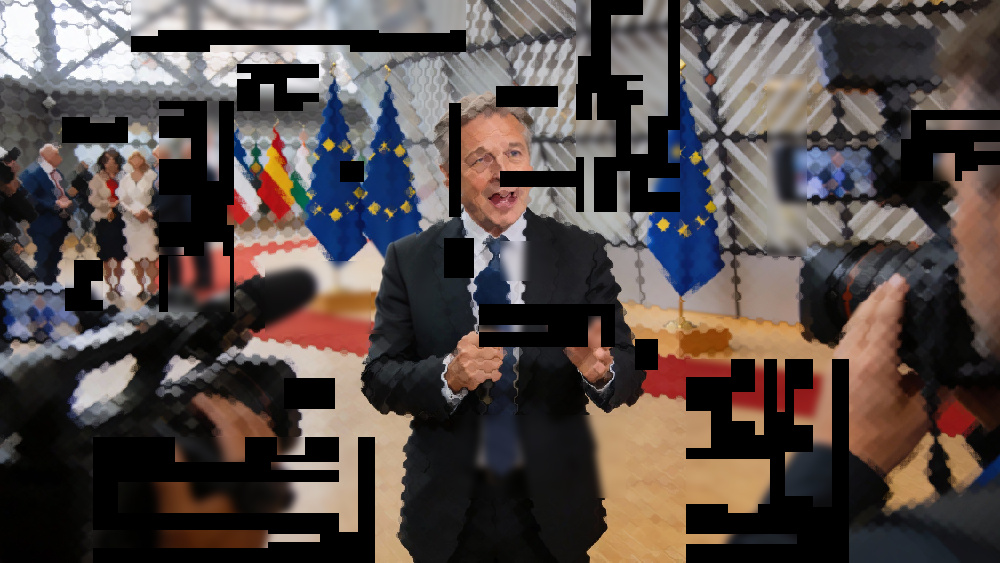
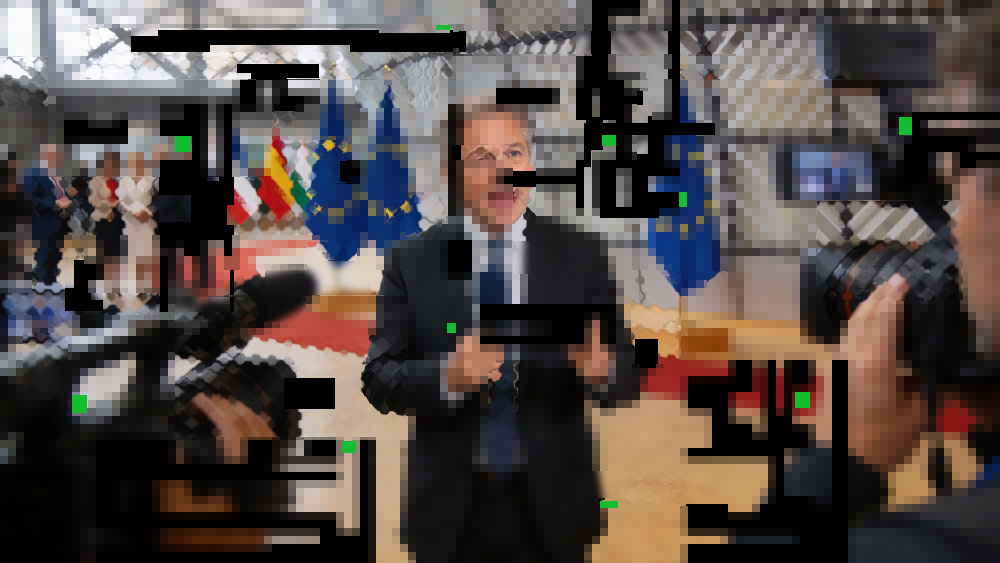
“NoBox”

diff --git a/html/index.html b/html/index.html
@@ -81,13 +81,13 @@
     <section class="banner-section position-relative d-flex align-items-end min-vh-100">
       <div class="container">
         <div class="d-flex flex-column gap-4 pb-8 position-relative z-1">
-          <!--  Content -->
+            <!--  Content -->
           <div class="row gap-7 gap-xl-0">
             <!--  Bonding -->
           <div class="col-xl-4 col-xxl-3 mt-10">
             <div class="d-flex flex-column" data-aos="fade-right" data-aos-delay="100"
               data-aos-duration="1000">
-              <!-- Bonding animacija -->
+                  <!-- Bonding animacija -->
                 <div class="bonding" alt="nobox dynamic network bonding" title="dynamic network bonding">
                   <svg width="300" height="200" viewBox="0 0 180 100" xmlns="http://www.w3.org/2000/svg" >
                     <!-- Pozadina -->
@@ -151,7 +151,7 @@
                       <rect x="15" y="81" width="0" height="10" fill="#2BC6FF" opacity="0.7">
                         <animate attributeName="width" values="125;130;126;129;125" dur="4s" repeatCount="indefinite"/>
                       </rect>
-                      <text x="18" y="89" font-size="8" fill="#fff" font-weight="bold">BONDED 15-20 Mbps</text>
+                      <text x="18" y="89" font-size="8" fill="#fff" font-weight="bold">BONDED 15 Mbps</text>
                     </g>
                     
                     <!-- Naslov -->
@@ -175,29 +175,28 @@
                   <div class="d-flex flex-column gap-6 p-7 bg-warning-subtle border border-white border-opacity-25" data-aos="fade-left" data-aos-delay="100"
                     data-aos-duration="1000">
                     <h2 class="mb-0 text-white">BREAKING NEWS</h2>
-                    <h4 class="mb-0 text-white">LIVE BROADCAST STREAMING REDEFINED</h4>
+                    <h4 class="mb-0 text-white">UNIVERSAL LIVE BROADCAST STREAMING</h4>
                   </div>
                 </div>
                  <div class="col-xxl-12">
                   <div class="d-flex flex-column gap-6 p-7 bg-danger-subtle border border-white border-opacity-25" data-aos="fade-up" data-aos-delay="100"
                     data-aos-duration="1000">
-                        <p class="fs-6 mb-0 text-white">
-                          Live streaming shouldn't be a luxury item. It should be a standard tool.</p>
-                         <h4><span class="text-primary">I don’t sell boxes or systems. I make sure your live signal arrives.</span></h4>
-                        <p class="fs-6 mb-0 text-white">No expensive proprietary hardware. No hidden licensing fees.
-                          <br>Just a rock-solid signal that works when you need it most.</p>
+                      <p class="fs-6 mb-0 text-white">Live streaming shouldn't be a luxury item. It should be a standard tool.</p>
+                        <h4><span class="text-primary">I don’t sell boxes or systems. I make sure your live signal arrives.</span></h4>
+                      <p class="fs-6 mb-0 text-white">The streaming setup is an architecture built for the real world, not the product.
+                      <br>Just a rock-solid signal that works when you need it most.</p>
                   </div>
                 </div>
               </div>
               <a href="mailto:info@nobox.be?subject=Let's%20talk&body=Hello,%20I%20would%20like%20to%20know%20more." class="btn border border-white border-opacity-25" data-aos="fade-up"
-                    data-aos-delay="300" data-aos-duration="1000">
-                    <span class="btn-text">Let's talk before your next live</span>
-                    <iconify-icon icon="lucide:arrow-up-right"
-                      class="btn-icon bg-white text-dark round-52 rounded-circle hstack justify-content-center fs-7 shadow-sm"></iconify-icon>
-                  </a>
+                data-aos-delay="300" data-aos-duration="1000">
+                <span class="btn-text">Let's talk before your next live</span>
+                <iconify-icon icon="lucide:arrow-up-right"
+                class="btn-icon bg-white text-dark round-52 rounded-circle hstack justify-content-center fs-7 shadow-sm"></iconify-icon>
+              </a>
             </div>
           </div>
-           <!--  Mali logo -->
+            <!--  Mali logo -->
           <div class="row align-items-center">
             <div class="col-xl-4">
               <div class="d-flex align-items-center gap-4" data-aos="fade-up" data-aos-delay="100"
@@ -235,14 +234,14 @@
             </div>
             <div class="col-xl-12 mt-10">
                 <div class="tab-content" data-aos="zoom-in" data-aos-delay="100" data-aos-duration="1000">
-                    <img src="../assets/images/services/professional-broadcast-live-location.jpg" alt="live-streaming-location" title="Live streamnig on location" class="img-fluid">
+                  <img src="../assets/images/services/professional-broadcast-live-location.jpg" alt="live-streaming-location" title="Live streamnig on location" class="img-fluid">
                 </div>
                 <div class="tab-content p-3" data-aos="zoom-in" data-aos-delay="100" data-aos-duration="1000">
-                    <p class="fs-5 mb-0 text-white">
-                      Traditional live streaming is expensive, rigid, and brittle. When it fails under weak networks, crews panic, decisions freeze, and stories are lost.
-                    </p>
+                  <p class="fs-4 mb-0 text-opacity-70 text-white">
+                    Traditional live streaming is expensive, rigid, and brittle.
+                    <br>When it fails under weak networks, crews panic, decisions freeze, and stories are lost.
+                  </p>
                 </div>
-                
               </div>
           </div>
           <div class="col-xl-8 col-xxl-7">
@@ -255,83 +254,83 @@
                     <h4 class="fs-4 fw-normal mb-0 text-white">The challenge lies in navigating the unpredictable digital jungle of fluctuating signals and network congestion.</h4>
                   </div>
                   <div class="col-xl-12 mt-5">
-              <div class="accordion accordion-flush" id="accordionFlushExample" data-aos="fade-up" data-aos-delay="200"
-                data-aos-duration="1000">
-                <div class="accordion-item bg-dark">
-                  <h2 class="accordion-header bg-light-gray">
-                    <button class="accordion-button collapsed fs-7 bg-dark text-primary" type="button" data-bs-toggle="collapse"
-                      data-bs-target="#flush-collapseOne" aria-expanded="false" aria-controls="flush-collapseOne">
-                      Signal interruptions
-                    </button>
-                  </h2>
-                  <div id="flush-collapseOne" class="accordion-collapse collapse"
-                    data-bs-parent="#accordionFlushExample">
-                    <div class="accordion-body pt-0 fs-4 text-white col-xl-10 p-7 opacity-75">
-                       Disruptions in the link between a device and the base station are inevitable. These interruptions result in reduced signal quality, causing drops in data transfer speeds and unreliable transmission.
-                    </div>
-                  </div>
-                </div>
-                <div class="accordion-item bg-dark">
-                  <h2 class="accordion-header bg-light-gray">
-                    <button class="accordion-button collapsed fs-7 bg-dark text-primary" type="button" data-bs-toggle="collapse"
-                      data-bs-target="#flush-collapseTwo" aria-expanded="false" aria-controls="flush-collapseFour">
-                      Network Congestion
-                    </button>
-                  </h2>
-                  <div id="flush-collapseTwo" class="accordion-collapse collapse"
-                    data-bs-parent="#accordionFlushExample">
-                    <div class="accordion-body pt-0 fs-4 text-white col-xl-10 p-7 opacity-75">
-                       A "strong signal" means nothing when the local cell tower network is saturated with traffic. A truly resilient system avoids these bottlenecks by balancing the load across multiple independent carriers and networks simultaneously.
-                    </div>
-                  </div>
-                </div>
-                <div class="accordion-item bg-dark">
-                  <h2 class="accordion-header bg-light-gray">
-                    <button class="accordion-button collapsed fs-7 bg-dark text-primary" type="button" data-bs-toggle="collapse"
-                      data-bs-target="#flush-collapseThree" aria-expanded="false" aria-controls="flush-collapseThree">
-                      Expensive hardware and software investments
-                    </button>
-                  </h2>
-                  <div id="flush-collapseThree" class="accordion-collapse collapse"
-                    data-bs-parent="#accordionFlushExample">
-                    <div class="accordion-body pt-0 fs-4 text-white col-xl-10 p-7 opacity-75">
-                      High costs for proprietary hardware, usually locked into a single, inflexible workflow, with often hidden fees or auto-renewals.
-                  </div>
-                </div>
-                <div class="accordion-item bg-dark">
-                  <h2 class="accordion-header bg-light-gray">
-                    <button class="accordion-button collapsed fs-7 bg-dark text-primary" type="button" data-bs-toggle="collapse"
-                      data-bs-target="#flush-collapseFour" aria-expanded="false" aria-controls="flush-collapseThree">
-                      Rigid systems that don't adapt to real-world conditions
-                    </button>
-                  </h2>
-                  <div id="flush-collapseFour" class="accordion-collapse collapse"
-                    data-bs-parent="#accordionFlushExample">
-                    <div class="accordion-body pt-0 fs-4 text-white col-xl-10 p-7 opacity-75">
-                      Proprietary hardware demands blind faith. One mystery box - one fail point. Crews can't see, fix, or bypass it, even glitch becomes a crisis. No visibility into the process means no way to anticipate or troubleshoot issues.
-                    </div>
-                  </div>
-                </div>
-                <div class="accordion-item bg-dark">
-                  <h2 class="accordion-header bg-light-gray">
-                    <button class="accordion-button collapsed fs-7 bg-dark text-primary" type="button" data-bs-toggle="collapse"
-                      data-bs-target="#flush-collapseFive" aria-expanded="false" aria-controls="flush-collapseFour">
-                      Collapse under poor network conditions
-                    </button>
-                  </h2>
-                  <div id="flush-collapseFive" class="accordion-collapse collapse"
-                    data-bs-parent="#accordionFlushExample">
-                    <div class="accordion-body pt-0 fs-4 text-white col-xl-10 p-7 opacity-75">
-                        When tech fails, stress rises, decisions slow, and the story is compromised. The emotional toll is real. This service removes that stress.
-                    </div>
-                  </div>
-                </div>
+                    <div class="accordion accordion-flush" id="accordionFlushExample" data-aos="fade-up" data-aos-delay="200"
+                      data-aos-duration="1000">
+                      <div class="accordion-item bg-dark">
+                        <h2 class="accordion-header bg-light-gray">
+                          <button class="accordion-button collapsed fs-7 bg-dark text-primary" type="button" data-bs-toggle="collapse"
+                            data-bs-target="#flush-collapseOne" aria-expanded="false" aria-controls="flush-collapseOne">
+                            Signal interruptions
+                          </button>
+                        </h2>
+                        <div id="flush-collapseOne" class="accordion-collapse collapse"
+                          data-bs-parent="#accordionFlushExample">
+                          <div class="accordion-body pt-0 fs-4 text-white col-xl-10 p-7 opacity-75">
+                            Disruptions in the link between a device and the base station are inevitable. These interruptions result in reduced signal quality, causing drops in data transfer speeds and unreliable transmission.
+                          </div>
+                        </div>
+                      </div>
+                      <div class="accordion-item bg-dark">
+                        <h2 class="accordion-header bg-light-gray">
+                          <button class="accordion-button collapsed fs-7 bg-dark text-primary" type="button" data-bs-toggle="collapse"
+                            data-bs-target="#flush-collapseTwo" aria-expanded="false" aria-controls="flush-collapseFour">
+                            Network Congestion
+                          </button>
+                        </h2>
+                        <div id="flush-collapseTwo" class="accordion-collapse collapse"
+                          data-bs-parent="#accordionFlushExample">
+                          <div class="accordion-body pt-0 fs-4 text-white col-xl-10 p-7 opacity-75">
+                            A "strong signal" means nothing when the local cell tower network is saturated with traffic. A truly resilient system avoids these bottlenecks by balancing the load across multiple independent carriers and networks simultaneously.
+                          </div>
+                        </div>
+                      </div>
+                      <div class="accordion-item bg-dark">
+                        <h2 class="accordion-header bg-light-gray">
+                          <button class="accordion-button collapsed fs-7 bg-dark text-primary" type="button" data-bs-toggle="collapse"
+                            data-bs-target="#flush-collapseThree" aria-expanded="false" aria-controls="flush-collapseThree">
+                            Expensive hardware and software investments
+                          </button>
+                        </h2>
+                        <div id="flush-collapseThree" class="accordion-collapse collapse"
+                          data-bs-parent="#accordionFlushExample">
+                          <div class="accordion-body pt-0 fs-4 text-white col-xl-10 p-7 opacity-75">
+                            High costs for proprietary hardware, usually locked into a single, inflexible workflow, with often hidden fees or auto-renewals.
+                        </div>
+                      </div>
+                      
 
-              </div>
-            </div>
+                      </div>
+                      <div class="accordion-item bg-dark">
+                        <h2 class="accordion-header bg-light-gray">
+                          <button class="accordion-button collapsed fs-7 bg-dark text-primary" type="button" data-bs-toggle="collapse"
+                            data-bs-target="#flush-collapseFour" aria-expanded="false" aria-controls="flush-collapseThree">
+                            Rigid systems that don't adapt to real-world conditions
+                          </button>
+                        </h2>
+                        <div id="flush-collapseFour" class="accordion-collapse collapse"
+                          data-bs-parent="#accordionFlushExample">
+                          <div class="accordion-body pt-0 fs-4 text-white col-xl-10 p-7 opacity-75">
+                            Proprietary hardware demands blind faith. One mystery box - one fail point. Crews can't see, fix, or bypass it, even glitch becomes a crisis. No visibility into the process means no way to anticipate or troubleshoot issues.
+                          </div>
+                        </div>
+                      </div>
+                      <div class="accordion-item bg-dark">
+                        <h2 class="accordion-header bg-light-gray">
+                          <button class="accordion-button collapsed fs-7 bg-dark text-primary" type="button" data-bs-toggle="collapse"
+                            data-bs-target="#flush-collapseFive" aria-expanded="false" aria-controls="flush-collapseFour">
+                            Collapse under poor network conditions
+                          </button>
+                        </h2>
+                        <div id="flush-collapseFive" class="accordion-collapse collapse"
+                          data-bs-parent="#accordionFlushExample">
+                          <div class="accordion-body pt-0 fs-4 text-white col-xl-10 p-7 opacity-75">
+                              When tech fails, stress rises, decisions slow, and the story is compromised. The emotional toll is real. This service removes that stress.
+                          </div>
+                        </div>
+                      </div>
+                    </div>
+                  </div>
                 </div>
-              </div>
-
             </div>
           </div>
         </div>
@@ -358,9 +357,9 @@
                 <div class="col-xxl-12">
                   <div class="d-flex flex-column gap-6" data-aos="fade-up" data-aos-delay="100"
                     data-aos-duration="1000">
-                    <h2 class="mb-0 fs-12">DYNAMIC NETWORK BONDING</h2>
-                      <h5 class="mb-0 fw-normal text-white">
-                        The streaming setup is a tool, a resilient architecture built for the real world, not the product.
+                    <h2 class="mb-2 fs-12">DYNAMIC NETWORK BONDING</h2>
+                      <h5 class="mb-2 fw-normal text-white">
+                        A resilient architecture built for the real world - Zero infrastructure.
                       </h5>
                       <h5 class="text-bg-dark p-2 fs-5 fw-normal rounded">nobox streams <b>HD 1080/50i</b> @<b>15Mbps</b> under <b>3 second letancy</b> to the program</h5>
                   </div>
@@ -489,22 +488,17 @@
                 </div>
               </div>
             </div>
-            
           </div>
-
-              <div class="row mb-6">
-                <div class="col-xxl-12">
-                  <div class="d-flex align-items-center flex-column gap-6 p-7 bg-warning-subtle border border-white border-opacity-25" data-aos="fade-left" data-aos-delay="100"
-                    data-aos-duration="1000">
-                    <h4 class="mb-0 text-white">YOU BRING THE STORY - WE BRING THE STREAM</h4>
-                    <h5 class="mb-0 fw-normal text-white">Designed for producers, editors, reporters, and camera ops who work under tight deadlines with zero tolerance for failure.</h5>
-                    
-                  </div>
-                </div>
+          <div class="row mb-6">
+            <div class="col-xxl-12">
+              <div class="d-flex align-items-center flex-column gap-6 p-7 bg-warning-subtle border border-white border-opacity-25" data-aos="fade-left" data-aos-delay="100"
+                data-aos-duration="1000">
+                <h4 class="mb-0 text-white">YOU BRING THE STORY - WE BRING THE STREAM</h4>
+                <h5 class="mb-0 fw-normal text-white">Designed for producers, editors, reporters, and camera ops who work under tight deadlines with zero tolerance for failure.</h5>
               </div>
-
+            </div>
+          </div>
         </div>
-        
       </div>
       <!--  Video bgd -->
       <video class="position-absolute top-0 start-0 w-100 h-100 object-fit-cover" autoplay muted loop playsinline>
@@ -540,12 +534,11 @@
           </div>
           <div class="col-xl-9 col-xxl-9">
             <div class="d-flex flex-column gap-6" data-aos="fade-up" data-aos-delay="100"
-                    data-aos-duration="1000">
-                    <h3 class="mb-0 fs-12">VISIBLE DIFFERENCE</h3>
-                      <h5 class="text-bg-dark p-2 fs-5 fw-normal rounded mb-3">
-                        Worst case scenario: <span class="text-primary"><b> Aggregates bandwidth </b></span> from all available sources <span class="text-primary"><b> combined </b></span> is reaching <span class="text-primary"><b> 1 Mbps:</b></span>
-                      </h5>
-                  </div>
+              data-aos-duration="1000">
+              <h3 class="mb-0 fs-12">VISIBLE DIFFERENCE</h3>
+              <h5 class="text-bg-dark p-2 fs-5 fw-normal rounded mb-3">
+                Worst case scenario: <span class="text-primary"><b> Aggregates bandwidth </b></span> from all available sources <span class="text-primary"><b> combined </b></span> is reaching <span class="text-primary"><b> 1 Mbps:</b></span></h5>
+            </div>
             <div class="row justify-content-end mb-4">
               <div class="col-xl-6 col-xl-4 d-flex">
                 <div class="card bg-danger-subtle w-100 border border-white border-opacity-25" data-aos="fade-up" data-aos-delay="200" data-aos-duration="1000">
@@ -574,12 +567,12 @@
               </div>
               </div>
             </div>
-            <a href="mailto:info@nobox.be?subject=Let's%20talk&body=Hello,%20I%20would%20like%20to%20know%20more." class="btn border border-white border-opacity-25" data-aos="fade-up"
+            <a href="mailto:info@nobox.be?subject=FReE%20Demo%20request&body=Hello,%20I%20would%20like%20to%20see%20it%20working." class="btn border border-white border-opacity-25" data-aos="fade-up"
                     data-aos-delay="300" data-aos-duration="1000">
                     <span class="btn-text">Request a free demo - See it working.</span>
                     <iconify-icon icon="lucide:arrow-up-right"
                       class="btn-icon bg-white text-dark round-52 rounded-circle hstack justify-content-center fs-7 shadow-sm"></iconify-icon>
-                  </a>
+            </a>
           </div>
         </div>
       </div>

diff --git a/index.html b/index.html
@@ -2,10 +2,17 @@
 <html lang="en">
 
 <head>
+  <title>NoBox - Stress-Free Live Streaming from Brussels</title>
   <meta charset="utf-8">
   <meta name="viewport" content="width=device-width, initial-scale=1">
+  <meta name="description" content="Live stream from EU institutions in under 30 minutes. No subscriptions, no hassle. SRT, open-source, ENG kit included.">
+  <meta name="keywords" content="live streaming, Brussels, EU, SRT, ENG, NoBox, open source streaming, real-time video">
+  <meta name="robots" content="index, follow">
+  <meta property="og:title" content="NoBox - Live Streaming in Brussels">
+  <meta property="og:description" content="Go live from EU institutions in under 30 minutes. ENG + Streaming.">
+  <meta property="og:image" content="https://no-box.be/assets/img/preview.jpg">
+  <meta property="og:url" content="https://no-box.be/">
   <meta http-equiv = "refresh" content = "0 ; url = './html/index.html'"/>
-  <title>Studiova</title>
   <link rel="shortcut icon" type="image/png" href="./assets/images/logos/favicon.svg" />
   <link rel="stylesheet" href="./assets/libs/owl.carousel/dist/assets/owl.carousel.min.css">
   <link rel="stylesheet" href="./assets/libs/aos-master/dist/aos.css">
